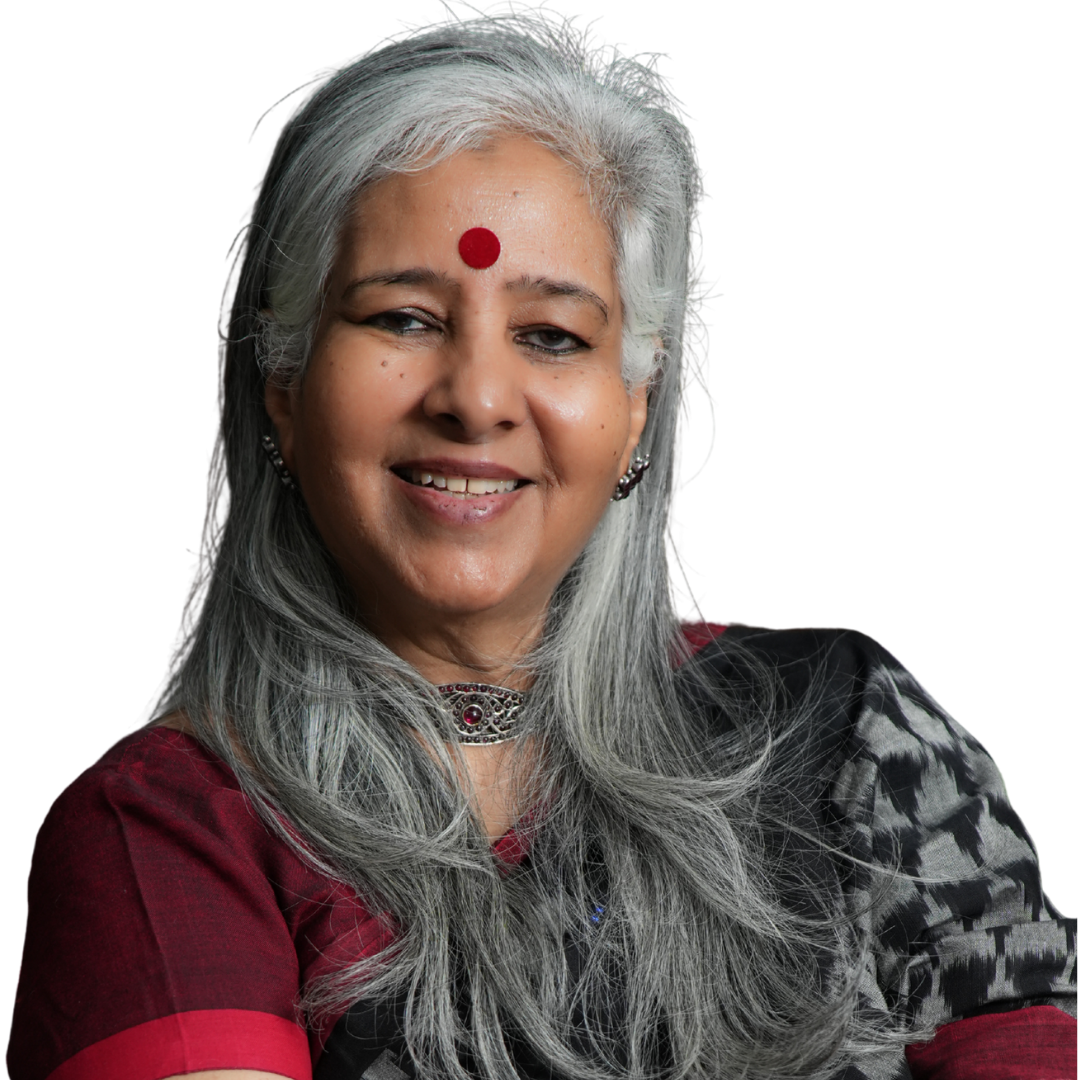
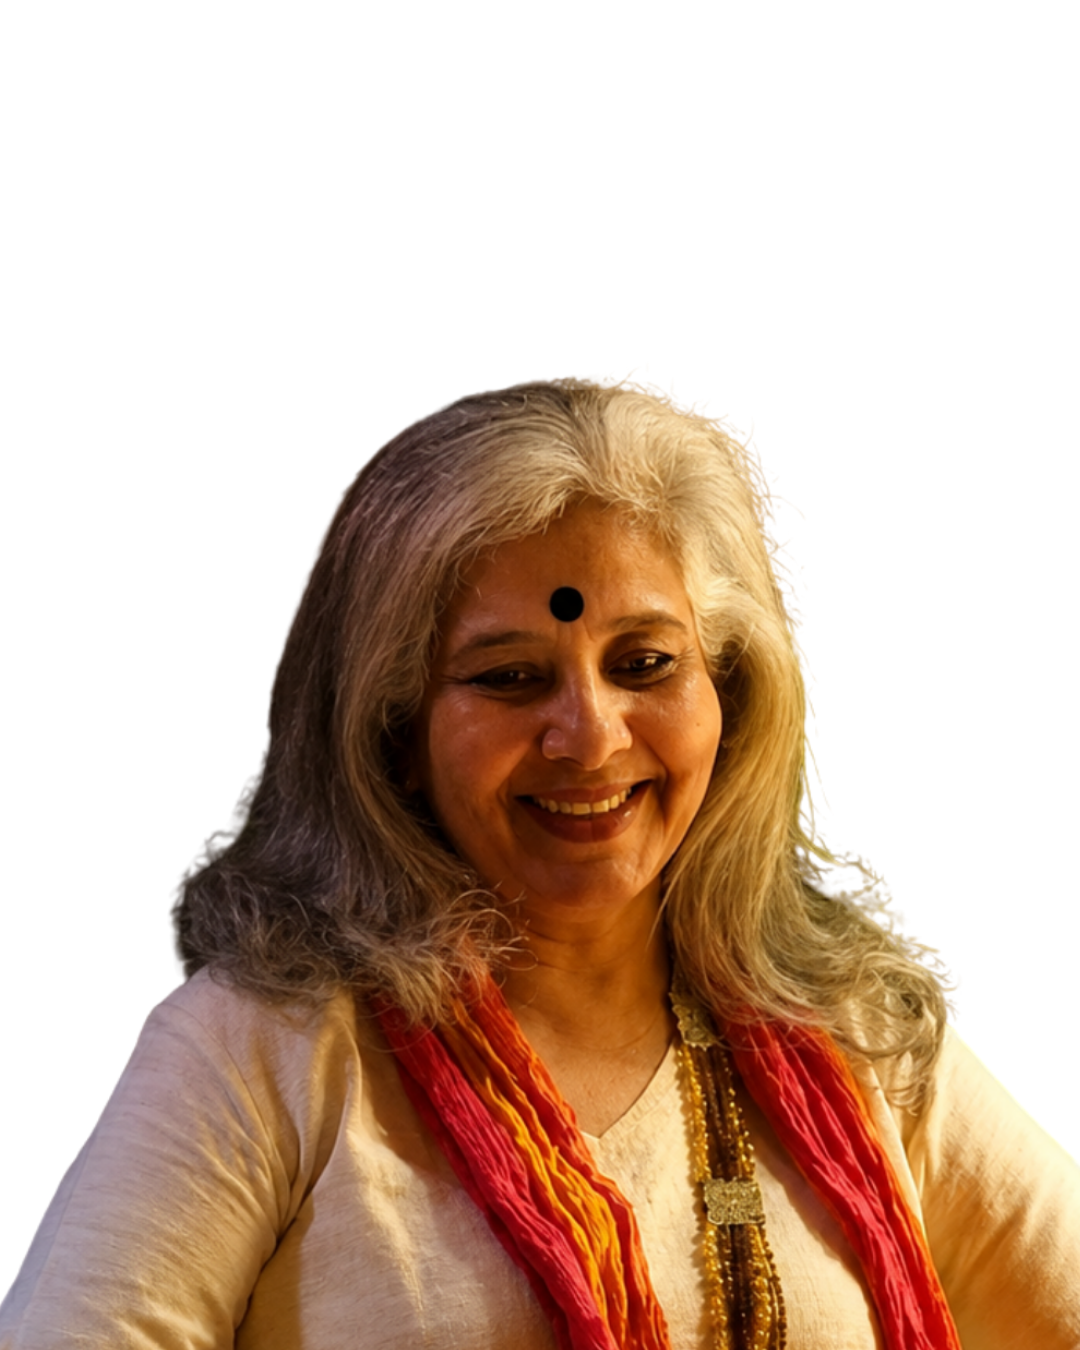
Board of Advisors: center header, update all 9 advisor photos, remove footer line

diff --git a/db/migrate/20260915000002_update_all_advisor_photos.rb b/db/migrate/20260915000002_update_all_advisor_photos.rb
@@ -1,0 +1,21 @@
+class UpdateAllAdvisorPhotos < ActiveRecord::Migration[8.1]
+  PHOTOS = {
+    "Alka Pandey"          => "/summit/assets/advisor_alka.png",
+    "Kiran Bir Sethi"      => "/summit/assets/advisor_kiran.png",
+    "Dr. Lakshmi Kumar"    => "/summit/assets/advisor_lakshmi.png",
+    "Mrunal Shah"          => "/summit/assets/advisor_mrunal.png",
+    "Dr. Parimal Merchant" => "/summit/assets/advisor_parimal.png",
+    "Russell John Cailey"  => "/summit/assets/advisor_russell.png",
+    "Dr. Sanjay Malpani"   => "/summit/assets/advisor_sanjay.png",
+    "Dr. Seetha Murty"     => "/summit/assets/advisor_seetha.png",
+    "Dr. Swati Popat Vats" => "/summit/assets/advisor_swati.png",
+  }.freeze
+
+  def up
+    PHOTOS.each do |name, path|
+      SummitSpeaker.find_by(name: name)&.update!(photo: path)
+    end
+  end
+
+  def down; end
+end
